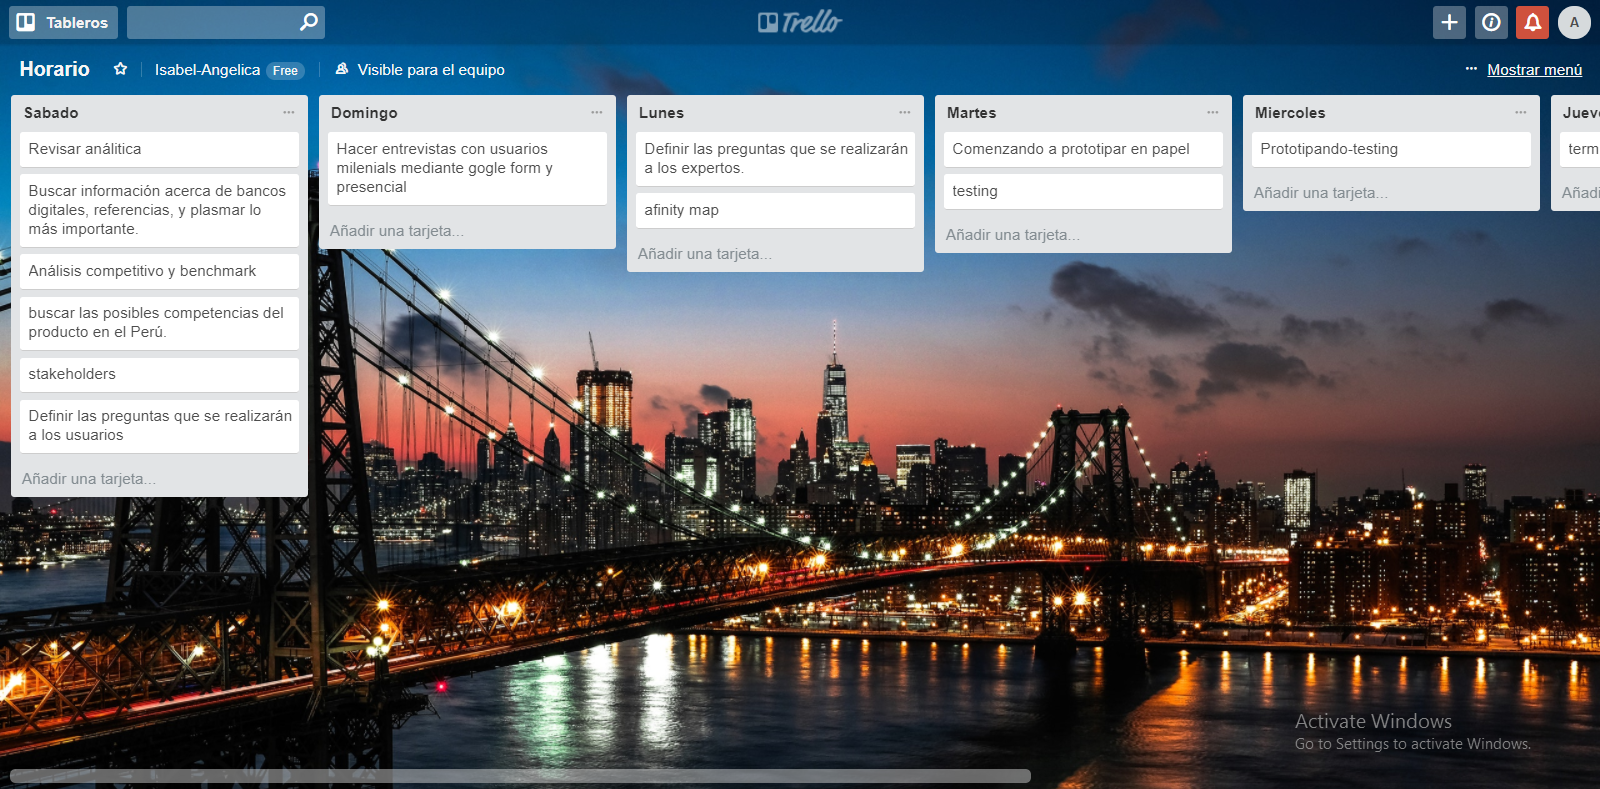
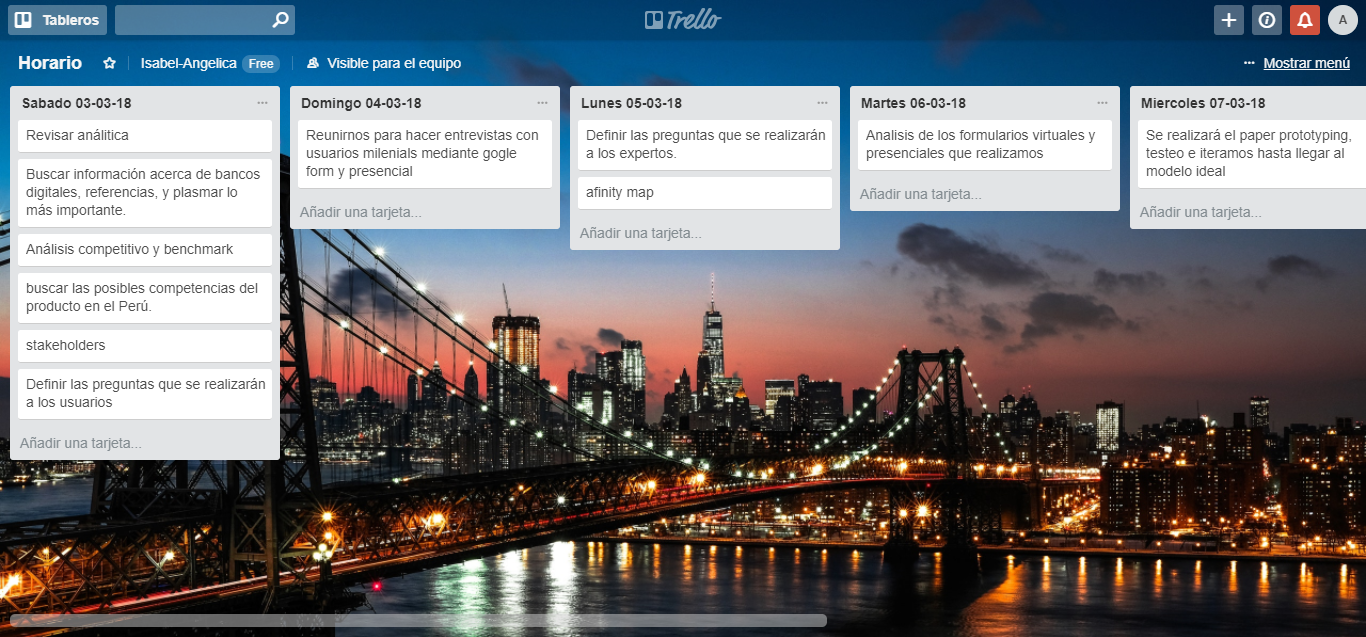
agregando contenido

diff --git a/README.md b/README.md
@@ -43,14 +43,21 @@ Crear un banco digital para millennials que pueda adaptarse a sus necesidades of
 ![BMC de un banco tradicional](assets/docs/2.jpeg)
 
 
+# Flujo de trabajo 
+
+Trabajamos con la herramienta Trello
 
 ![Trello](assets/docs/3.png)
+![Trello](assets/docs/3.1png)
 
+Realizamos entrevistas presencialmente y virtualmente.
 
-![img1-estadistica](assets/docs/4.jpg)
+![img](assets/docs/16.jpg)
+
 ![img2-estadistica](assets/docs/5.png)
 ![img3-estadistica](assets/docs/6.png)
 ![img4-estadistica](assets/docs/7.png)
+![img4-estadistica](assets/docs/7.1.jpeg)
 ![img5-estadistica](assets/docs/8.png)
 ![img6-estadistica](assets/docs/9.png)
 ![img7-estadistica](assets/docs/10.png)
@@ -59,3 +66,40 @@ Crear un banco digital para millennials que pueda adaptarse a sus necesidades of
 ![img10-estadistica](assets/docs/13.png)
 ![img11-estadistica](assets/docs/14.png)
 ![img12-estadistica](assets/docs/15.png)
+
+
+# Afinity map 
+Llegamos a la conclusión de que los usuarios milenials principalmente hacen Pagos, Transferencias, Retiros llegando a la conclusión de que de cada 10 milenials 9 tienen cultura de ahorro.
+
+![img1-estadistica](assets/docs/4.jpg)
+
+## Paper prototyping
+
+![img12-estadistica](assets/docs/17.jpeg)
+![img12-estadistica](assets/docs/18.jpeg)
+![img12-estadistica](assets/docs/19.jpeg)
+![img12-estadistica](assets/docs/20.jpeg)
+
+## Protipo final 
+
+Trabajamos con las herramientas ´ Figma´ ´Marvel´
+
+![Figma](https://www.figma.com/file/F866NsK7ZVvBTnxT9nxv5Q9J/Untitled)
+
+Nuestro producto se presento el día viernes 09-03-18
+
+![Marvel1](https://marvelapp.com/project/2781897/)
+
+
+Recibimos feddback y realizamos los cambios
+
+![Marvel2](https://marvelapp.com/project/2786681/)
+
+
+
+
+
+
+
+
+
